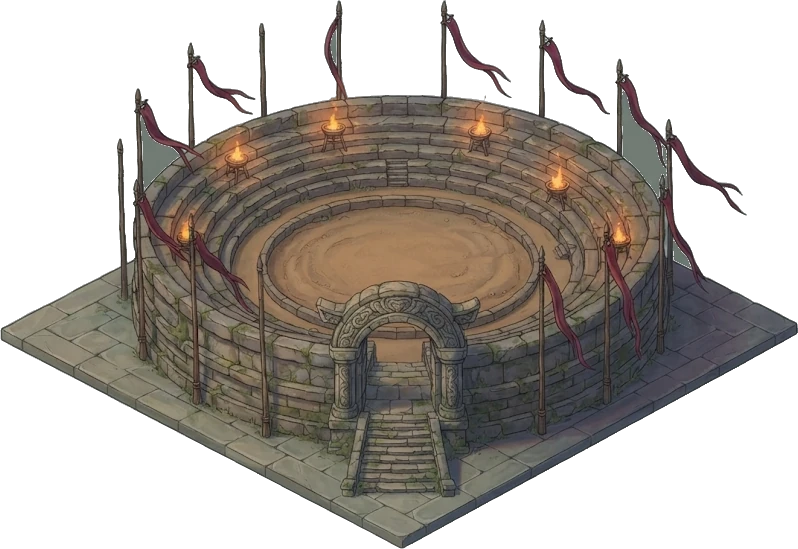
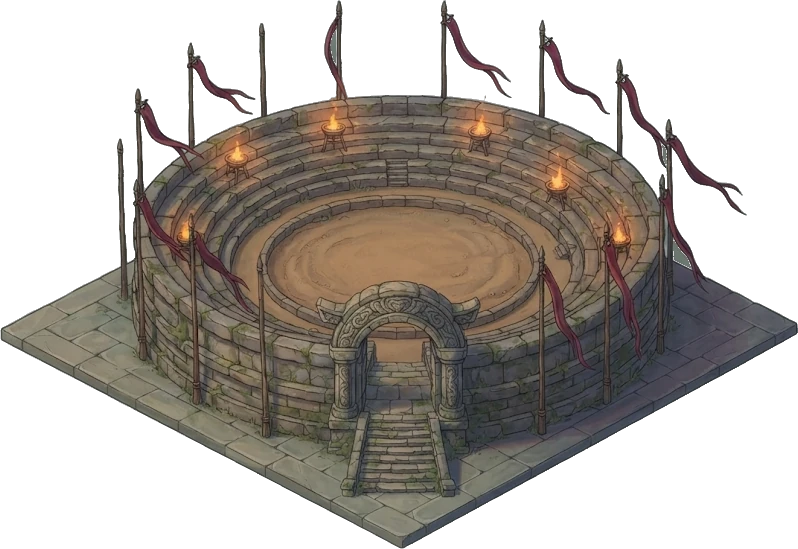
Trees by their trunks; the Arena Keeper out on the road
A tree's crown is twice as wide as its patch of grass, so trees placed by
that patch spread over the stalls and hid the herbalist. They now stand by
the trunk (town.PROPS, with a height) where their crowns hang over nothing,
and are drawn bigger. Pieces are depth-sorted by their footprint's middle,
so a tree in front of the row house is no longer drawn under it.

The arena's gaps between its banner poles are kept open (they were filled
with background), and the Arena Keeper stands on the road beside the arena
instead of behind its poles.

Claude-Session: https://claude.ai/code/session_018PQaDNMJFyDFFKL6zLMtCE

Changed region(s): [[0.782, 0.1858, 0.8421, 0.3716], [0.1805, 0.2477, 0.2406, 0.3406], [0.1504, 0.2168, 0.1805, 0.2477]]

diff --git a/web/static/town.js b/web/static/town.js
@@ -60,7 +60,7 @@
   var painted = new Image(); painted.src = cfg.ground;
   PIECES.forEach(function (p) {
     p.img = new Image(); p.img.src = p.src;
-    p.depth = p.fp ? p.fp[0] + p.fp[2] + p.fp[1] + p.fp[3] : p.at[0] + p.at[1];
+    p.depth = p.fp ? p.fp[0] + p.fp[2] / 2 + p.fp[1] + p.fp[3] / 2 : p.at[0] + p.at[1];   // a footprint's middle
   });
   PIECES.sort(function (a, b) { return a.depth - b.depth; });
   var sheet = new Image(); sheet.src = SH.src;

diff --git a/web/town.py b/web/town.py
@@ -76,18 +76,14 @@ BUILDINGS = [
     # the south-west: a house, trees and bushes
     _b("house_w", "house", 3.4, 22.2, 3.4),
     _b("house_sw", "house", 8.8, 25.0, 3.4, mirror=True),
-    _b("blossom_sw", "blossom", 12.6, 21.4, 2.6),
-    _b("pine_sw", "pine", 3.6, 26.0, 2.2), _b("bush_sw", "bush", 13.0, 26.6, 2.0),
     _b("boulders_sw", "boulders", 16.0, 26.0, 2.4),
     # the east: the training yard
-    _b("rack_1", "rack", 21.6, 7.6, 1.4), _b("rack_2", "rack", 26.2, 7.6, 1.4, mirror=True),
+    _b("rack_1", "rack", 22.4, 8.0, 1.4), _b("rack_2", "rack", 26.2, 7.6, 1.4, mirror=True),
     _b("dummy_1", "dummy", 22.6, 10.4, 0.55), _b("dummy_2", "dummy", 24.4, 9.6, 0.55), _b("dummy_3", "dummy", 25.8, 11.0, 0.55),
     _b("barrels_e", "barrels", 26.8, 12.0, 1.8),
-    _b("blossom_e", "blossom", 18.8, 7.0, 2.4),
     # the south: the arena, the stele by the plaza
     _b("arena", "arena", 19.8, 20.2, 7.0),
     _b("stele", "stele", 18.4, 18.4, 1.5),
-    _b("pine_s", "pine", 16.8, 22.6, 2.0),
     # lantern posts along the road and at the plaza's corners
     *[_b(f"lantern_{i}", "lantern", x, y, 0.4) for i, (x, y) in enumerate(
         [(21.4, 13.8), (24.8, 13.8), (21.4, 18.0), (24.8, 18.0), (10.4, 10.4), (20.0, 10.2), (10.2, 20.0)])],
@@ -95,6 +91,11 @@ BUILDINGS = [
 # Props stand on one point (x, y), the bottom middle of the picture, drawn `h` world px tall; `r` blocks the way.
 PROPS = [
     {"img": "well", "x": 15.5, "y": 15.5, "h": 200, "r": 0.8},
+    # trees stand by the trunk: a crown is far wider than its roots, so each is where its crown hangs over nothing
+    {"img": "blossom", "x": 21.6, "y": 7.0, "h": 380, "r": 0.4},     # by the training yard
+    {"img": "blossom", "x": 15.2, "y": 25.6, "h": 380, "r": 0.4},    # in the south-west garden
+    {"img": "pine", "x": 4.8, "y": 27.0, "h": 420, "r": 0.35},
+    {"img": "pine", "x": 17.6, "y": 23.4, "h": 400, "r": 0.35},
 ]
 # The ground (scripts/make_town_ground.py paints art/maps/town.webp from these): grass inside the walls, forest
 # floor outside, the plaza paved and dirt roads, paths and yards; rectangles x0, y0, x1, y1 in tiles.
@@ -138,10 +139,10 @@ NPCS = [
     {"key": "master", "name": "Martial Master", "title": "Training", "x": 23.0, "y": 13.0,
      "src": "/art/portraits/town/master.webp", "h": 128,
      "line": "The training yard isn't open to you yet. Train through the bot for now; my doors open soon."},
-    {"key": "arena", "name": "Arena Keeper", "title": "Duels", "x": 23.3, "y": 28.2,
+    {"key": "arena", "name": "Arena Keeper", "title": "Duels", "x": 24.6, "y": 16.4,
      "src": "/art/portraits/town/arena.webp", "h": 134,
      "line": "No duels in the ring tonight. When it opens, cultivators will test each other here."},
-    {"key": "stele", "name": "Stone Stele", "title": "The rankings", "x": 19.2, "y": 20.6, "prop": True,
+    {"key": "stele", "name": "Stone Stele", "title": "The rankings", "x": 17.6, "y": 19.6, "prop": True,
      "line": "The names of the town's strongest are carved here. The carving isn't finished yet."},
 ]
 

diff --git a/scripts/make_town_kit.py b/scripts/make_town_kit.py
@@ -43,6 +43,7 @@ FLUSH = {"pond", "pine", "blossom", "boulders", "bush", "rack", "barrels", "herb
 BAND = {"pine": 0.3, "blossom": 0.3}      # where the base is looked for: the lowest share of the picture (trees: low)
 # a base whose stone is so close to the backdrop that the cut-out loses most of it: its corners in the picture
 # (left, right, bottom), measured by hand, so the floor is put back whole and where it really is
+OPEN = {"arena"}                          # buildings whose gaps are background (between banner poles): not filled
 BASES = {"stalls": ((150, 336), (868, 334.5), (507.5, 534))}
 SLOPE = 0.58                        # Gemini draws its tiles a little steeper than 2:1
 WALL = {"slope": 0.478, "foot": 647.5, "plain": 520, "lantern": 650, "tile": 64, "overlap": 3}   # px, measured
@@ -63,7 +64,8 @@ def save(name, im, kit, base=True):
 def building(path, session, corners_at=None):
     from PIL import ImageDraw
     old = npc.HOLE
-    npc.HOLE = 2500                         # gaps a building shuts in (between its posts) are bigger than a person's
+    if os.path.basename(path).split(".")[0] not in OPEN:
+        npc.HOLE = 2500                     # gaps a building shuts in (between its posts) are bigger than a person's
     try:
         im = npc.cut(path, session, crop=False)
     finally:
